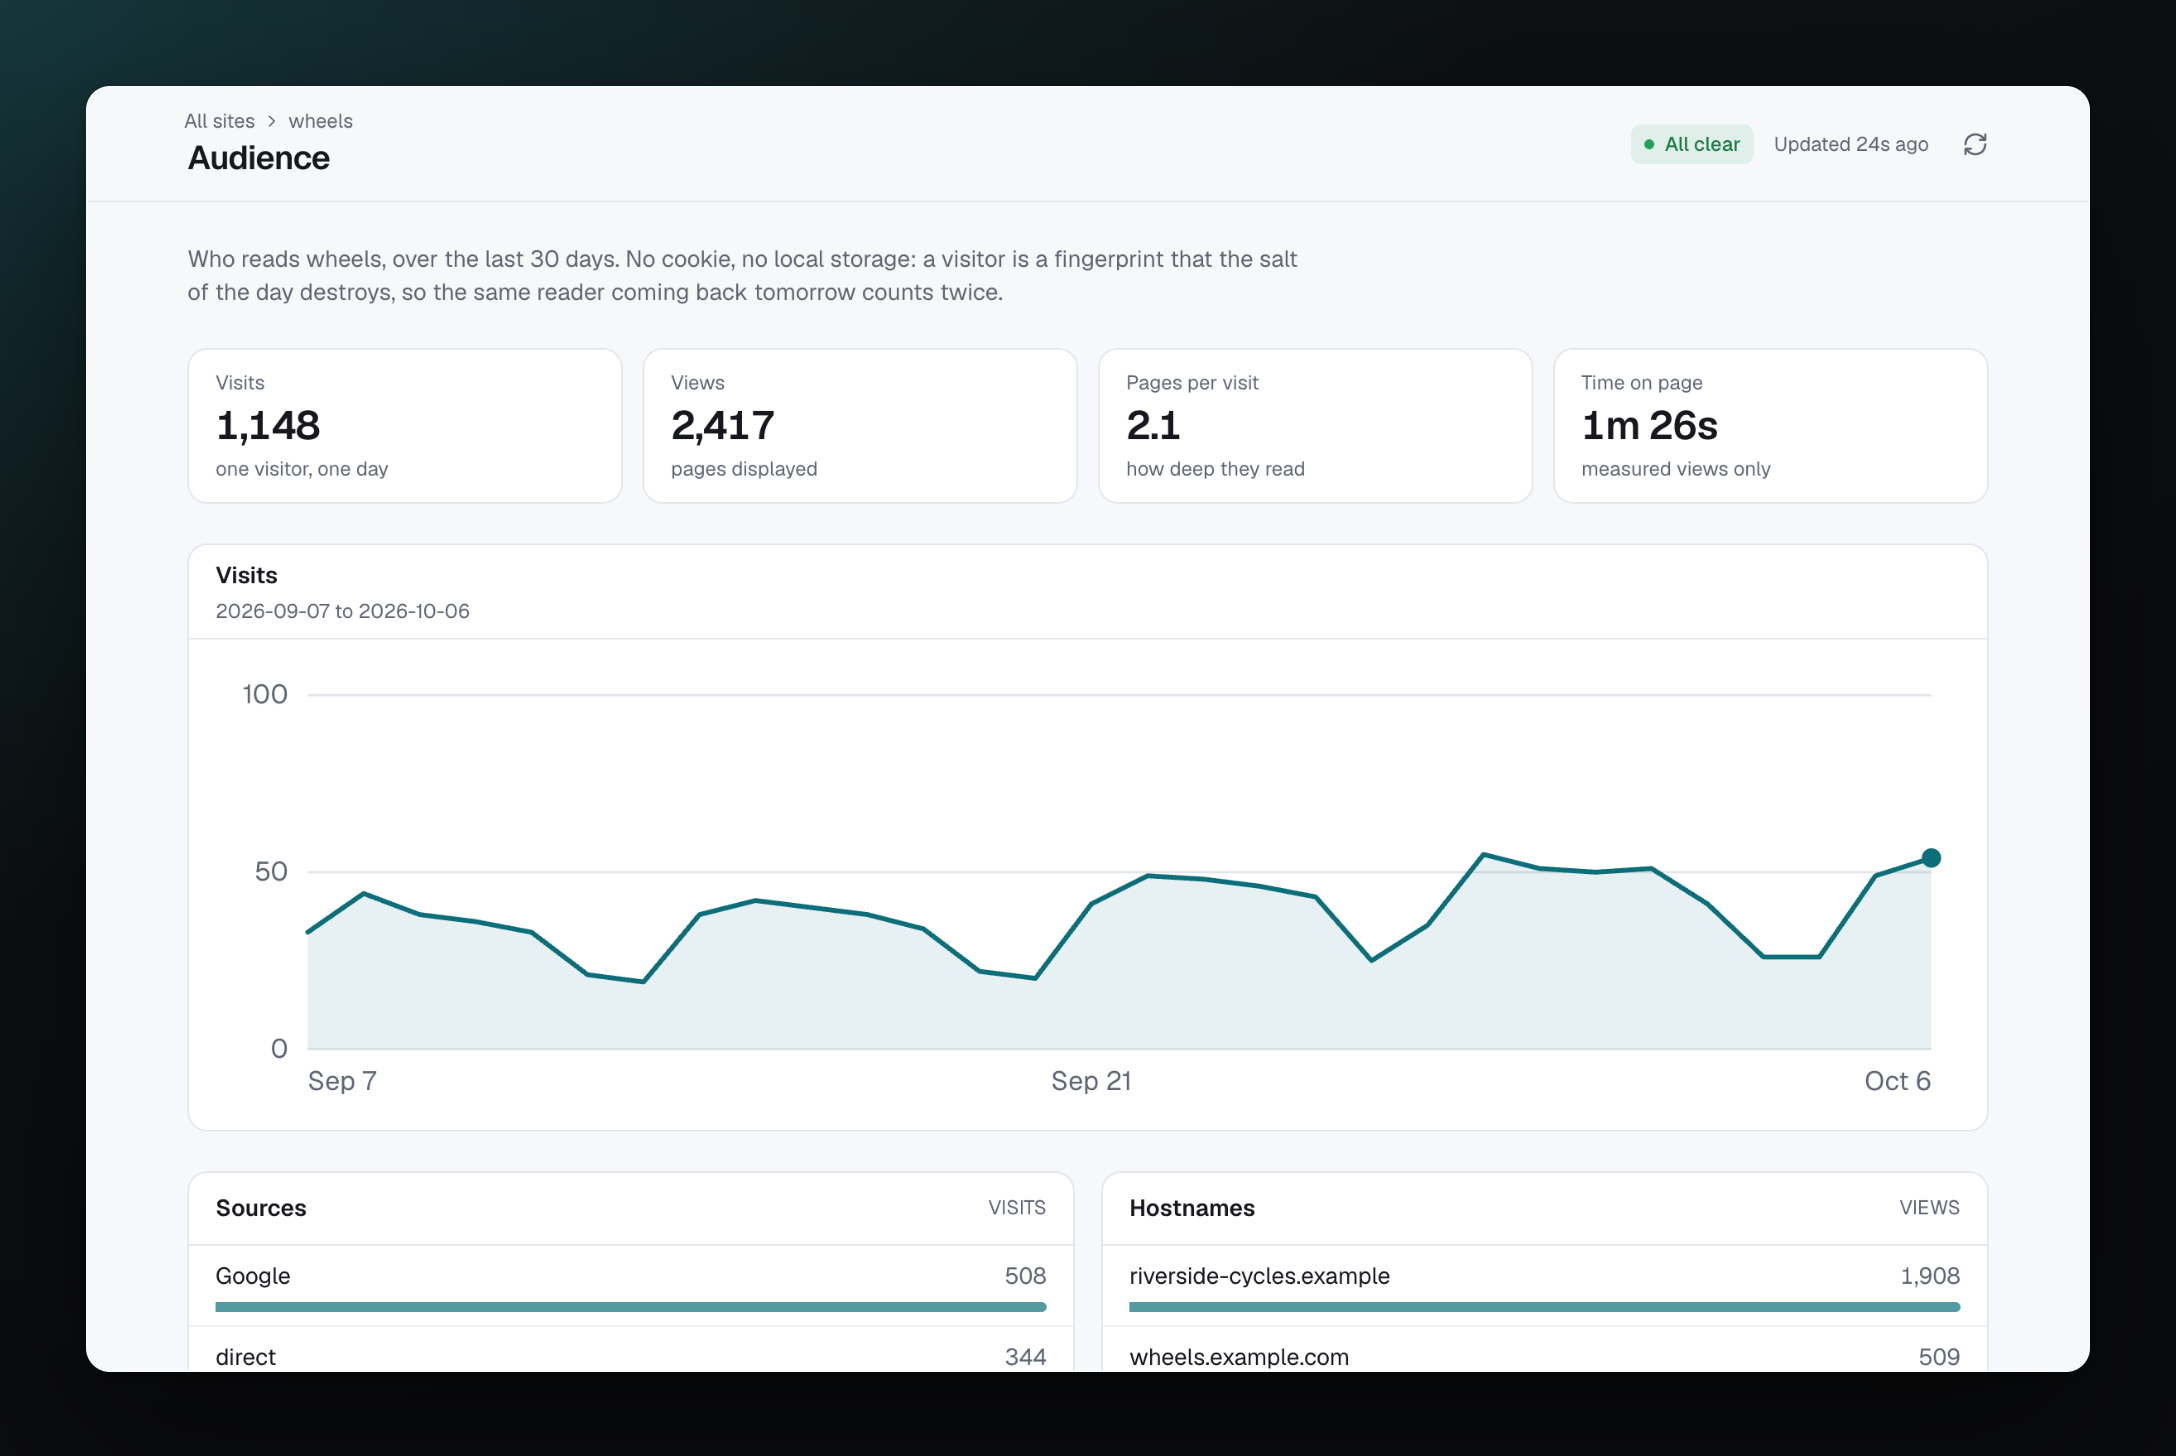
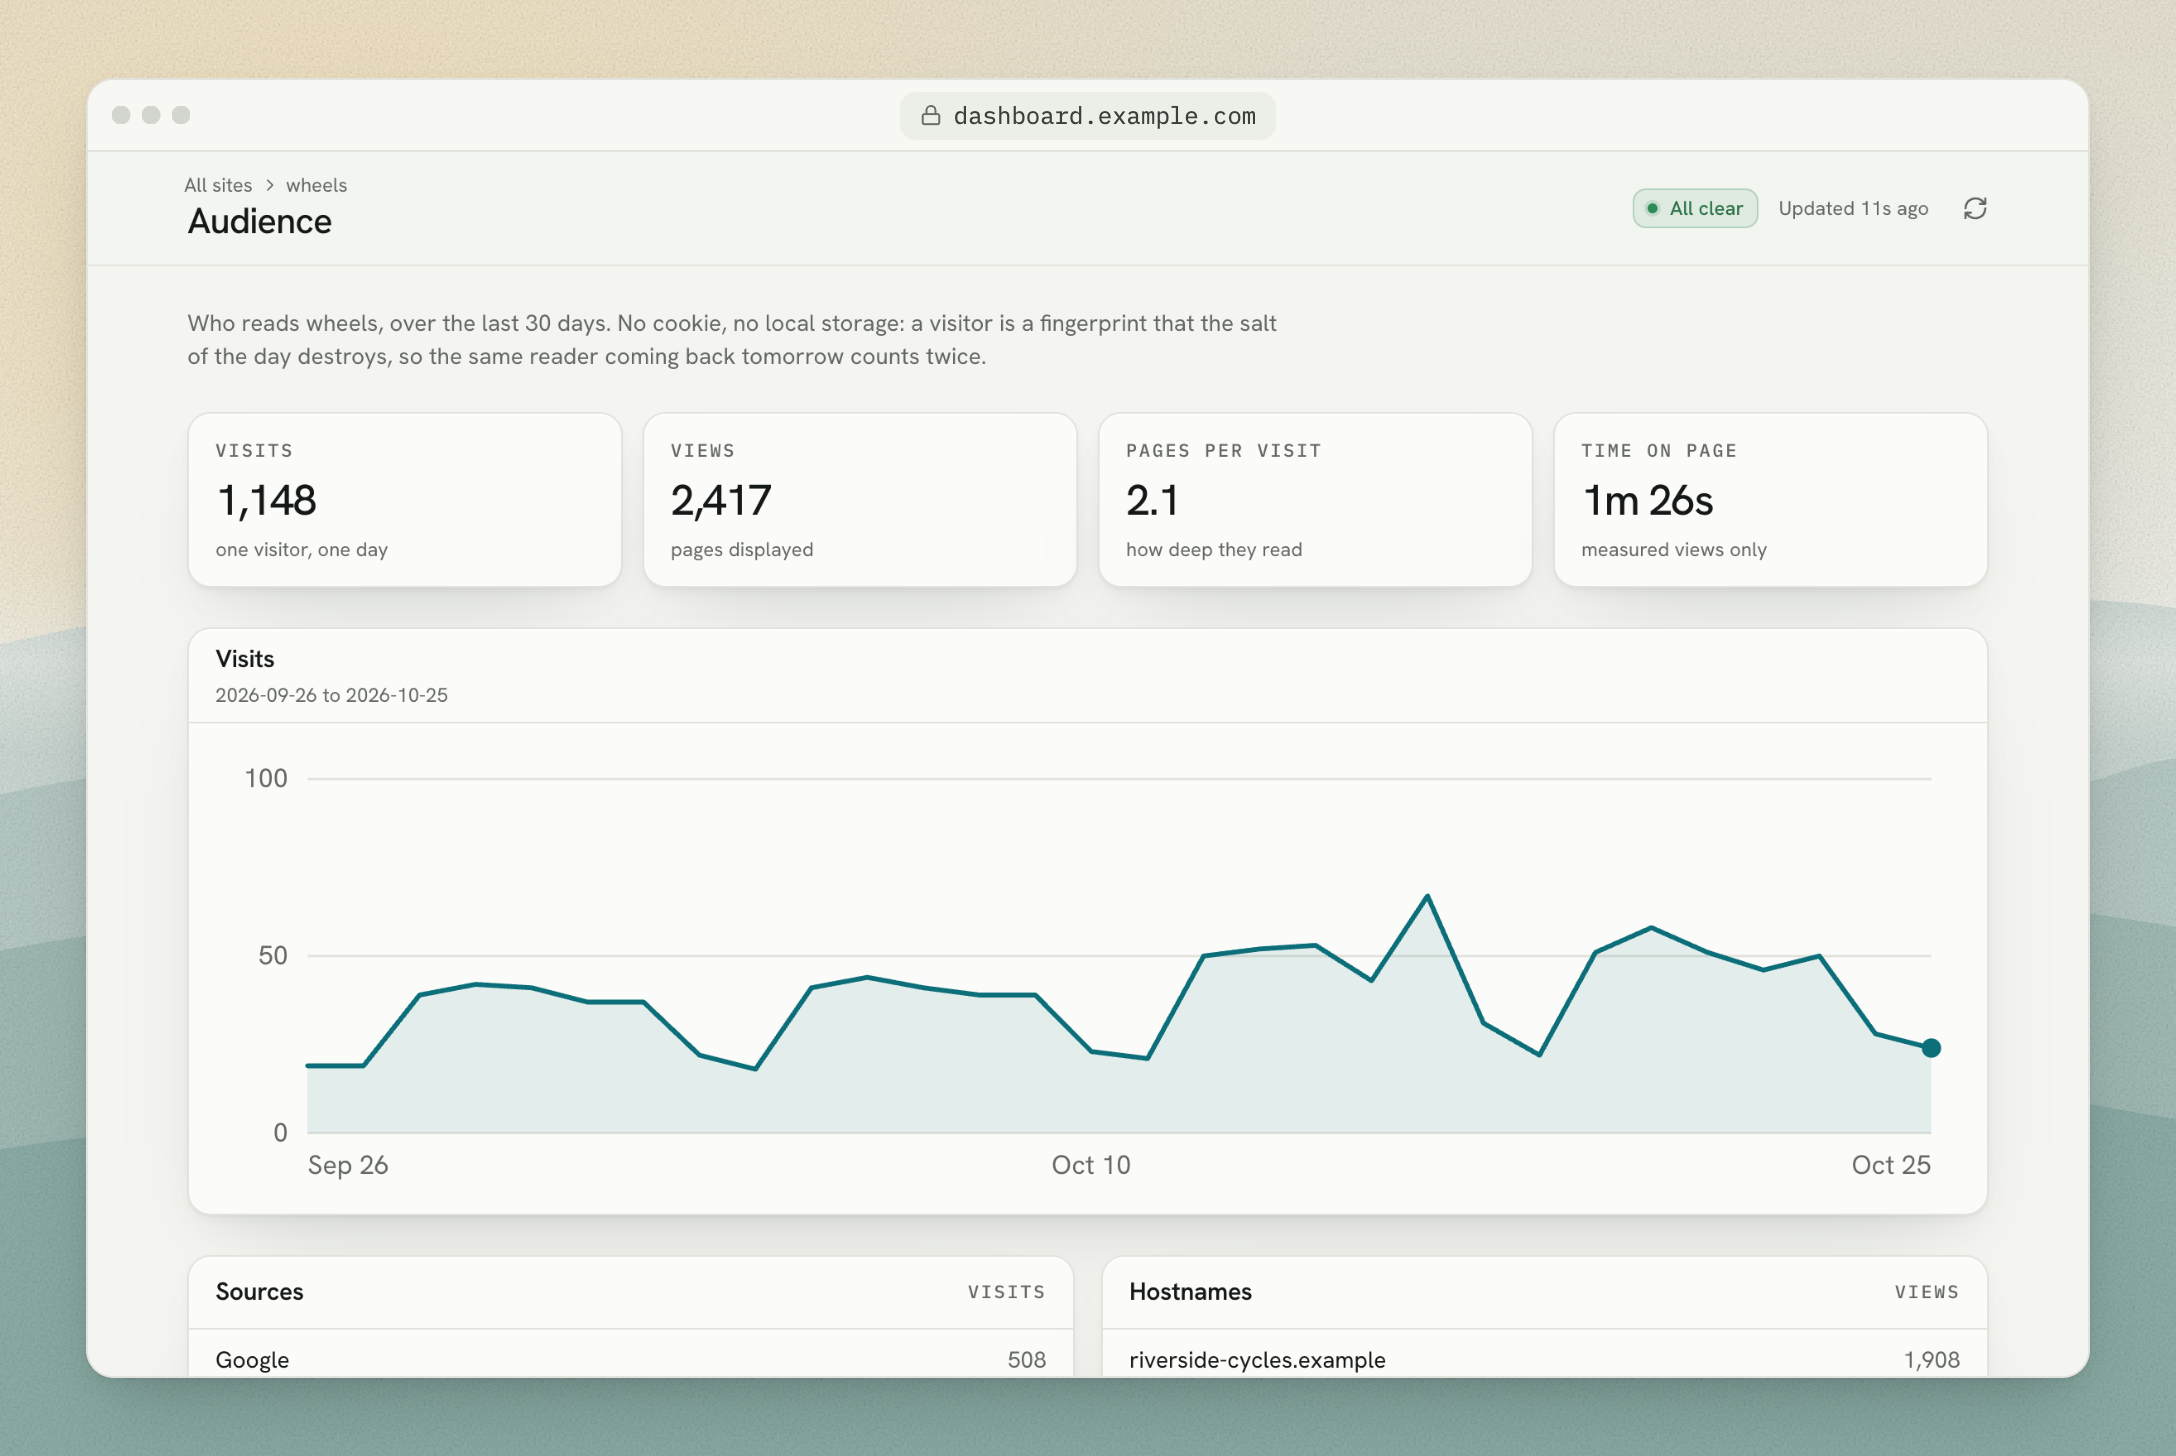
Retake the README's screenshots in the Ledger look
The dashboard and audience screenshots showed Graphite. They are taken
again from the page bench's showcase and framed as the landing page frames
its hero, in its window on its dawn landscape, so the README shows the
product as the site does.

The showcase no longer heals what it promises: its stores were changed
after several services started, so the Sites list carried restart pending
pills and the platform's own projects listed because of them. In the
showcase the stores now date from before every start.

diff --git a/dashboard/scripts/page-bench.ts b/dashboard/scripts/page-bench.ts
@@ -987,7 +987,8 @@ function storeOf(p: FakeProject) {
   if (manifest === null || manifest.slug !== p.slug || !hasStore(manifest)) return null;
   const { runtime, files } = secretsOf(manifest);
   const values = new Map([...runtime.slice(0, -1), "OLD_WEBHOOK_SECRET"].map((name) => [name, "bench"]));
-  const changed = start - 3 * DAY;
+  // Healed, the stores changed before any service last started: no restart pending.
+  const changed = start - (SHOWCASE ? 60 : 3) * DAY;
   return storeView({
     slug: p.slug,
     manifest,

diff --git a/docs/assets/README.md b/docs/assets/README.md
@@ -6,19 +6,21 @@
 | `logo-dark.svg` | The same on a dark background, where the mark's line turns pale and its shadow lifts, as on the landing page in dark. |
 | `mark.svg` | The mark alone, square, for an avatar or an icon. |
 | `social-preview.png` | The repository's social card, 1280 × 640: the landing page's share card, its title and its command, with the repository's address. GitHub does not read it from here: a new one is uploaded by hand under *Settings → Social preview*. |
-| `screenshots/` | Screenshots, `dashboard.png` in the README: the real dashboard, run by its page bench in showcase mode (`BENCH_SHOWCASE=1 bun scripts/page-bench.ts` in `dashboard/`), with fictitious sites, framed on near black graphite lit by the brand's petrol. The dashboard is taken at 1440 × 900 and the door page at 1200 × 720, both at twice the density, then set in a window 1200 and 1000 wide. |
+| `screenshots/` | Screenshots, `dashboard.png` in the README: the real dashboard, run by its page bench in showcase mode (`BENCH_SHOWCASE=1 bun scripts/page-bench.ts` in `dashboard/`), with fictitious sites. `dashboard.png` and `audience.png` are framed as the landing page frames its hero: in its window, the address `dashboard.example.com` in its bar, on its dawn landscape. The dashboard is taken at 1440 × 900, Audience as its content alone, 1208 × 739, and the door page at 1200 × 720, all at twice the density, then set in a window 1200, 1000 and 1000 wide. The door page's still has the earlier frame, near black graphite lit by the brand's petrol. |
 
 **The mark** is a solid block with two slits cut in from opposite sides: the S
 of sitesolide, left standing in the material. The slits are holes rather than
 bars painted over the block, so any background shows through them.
 
-It is drawn as the landing page's header draws it: the block laid twice, a hard
-shadow offset by 1.6 down and to the right, then a petrol face ringed with a
-line 1.5 wide. These files, the dashboard (`dashboard/web/src/components/logo.tsx`)
-and the portal's page (`portal/src/page.ts`) carry that drawing; a change goes
-to all of them, and comes from the landing page first. The favicons alone keep
-a petrol gradient, the block filling the whole square, as the landing page's
-favicon does: at sixteen pixels a line and a shadow would only blur.
+The landing page now draws it in its Ledger look: the block filling its
+square, a teal gradient from `#14899a` at its top left corner to `#0a5560` at
+its bottom right, as its favicon always did. The dashboard
+(`dashboard/web/src/components/logo.tsx`) follows it. These files and the
+portal's page (`portal/src/page.ts`) still carry the earlier drawing, the
+block laid twice, a hard shadow offset by 1.6 down and to the right, then a
+petrol face ringed with a line 1.5 wide, until they follow too; a change
+goes to all of them, and comes from the landing page first. The favicons
+keep the gradient, the block filling the whole square.
 
 **The wordmark** is Archivo at width 125 and weight 650, tracked at −0.02 em,
 converted to outlines so the SVG renders the same without the font. Its height,
@@ -32,9 +34,9 @@ baseline to ascender, is 52 % of the mark's, centred on it.
 | Mark's shadow | `#12211f` | `#4f7a70` |
 | Favicon | `#138896` → `#0a5560` | `#5cc8d3` → `#2c98a4` |
 
-**One colour family.** The mark's colours are the landing page's own; in
-light, its face is the dashboard's accent, `#0b6e79`, so the logo and the
-accent read as the same petrol. The wordmark takes the dashboard's text
-colour. Red is the dashboard's error colour, never the brand's. The tokens,
-`mark-face`, `mark-line`, `mark-shadow`, `primary` and `foreground`, are in
-`dashboard/web/src/styles/global.css`.
+**One colour family.** The mark's colours are the landing page's own, around
+the dashboard's accent, `#0b6e79`, so the logo and the accent read as the same
+teal. Red is the dashboard's error colour, never the brand's. The dashboard's
+tokens, `mark-hi`, `mark-lo`, `primary` and `foreground`, are in
+`dashboard/web/src/styles/global.css`; the table above gives these files'
+own, from the earlier drawing.
